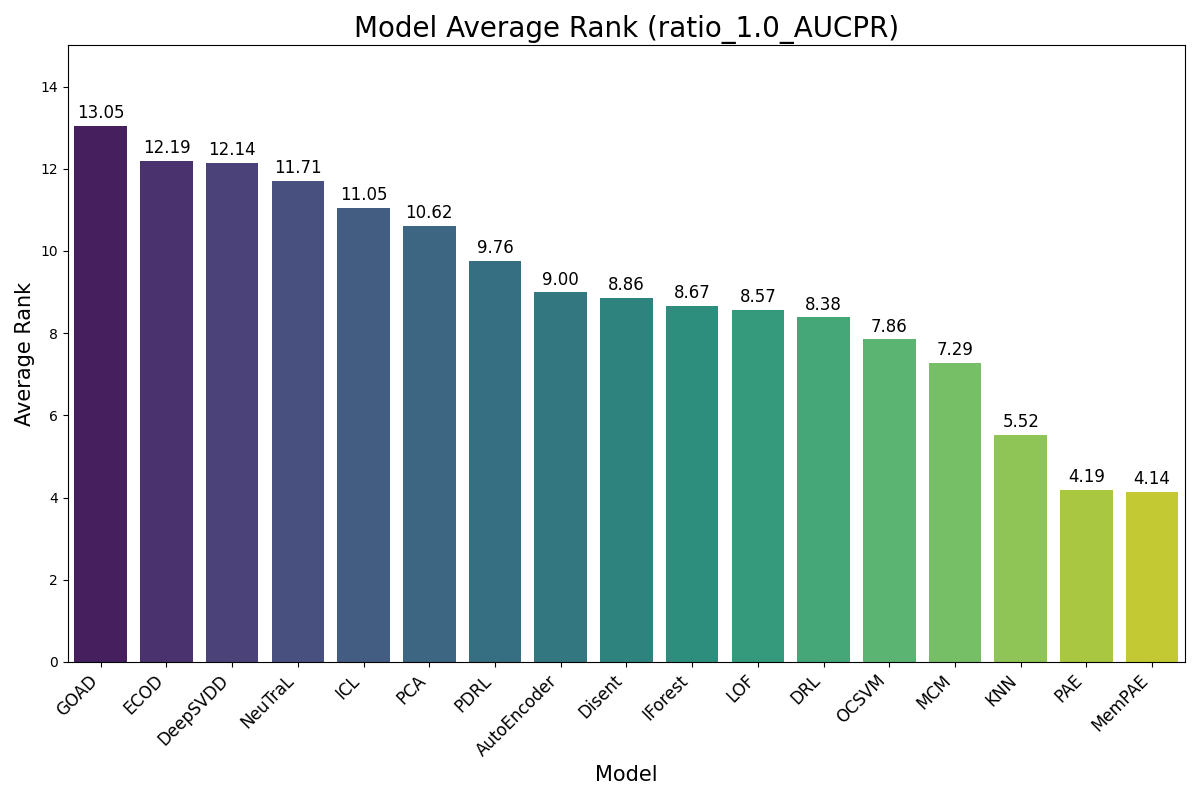
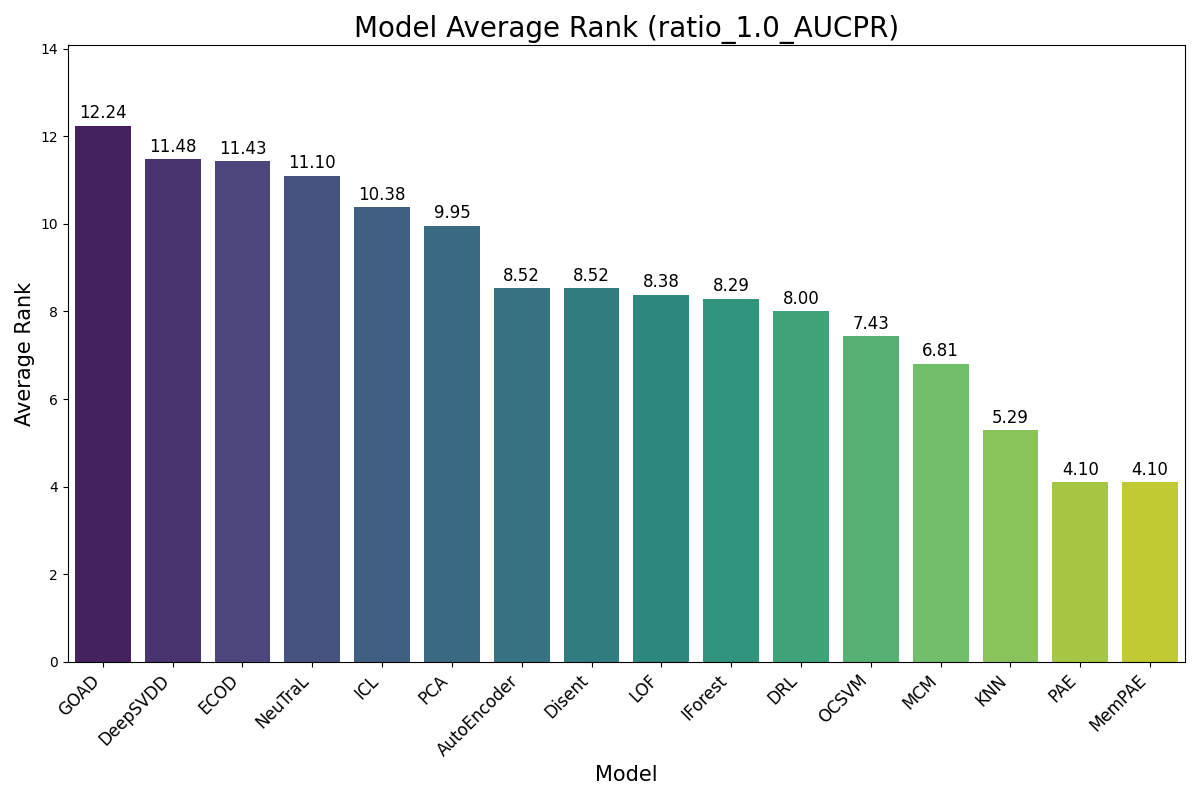
temp

Changed region(s): [[0.0617, 0.125, 0.9867, 0.9375], [0.8942, 0.8438, 0.9558, 0.9062], [0.0308, 0.875, 0.0617, 0.9062]]

diff --git a/summary.py b/summary.py
@@ -405,7 +405,7 @@ def render(
 
     print(base)
     print(df_render)
-    print(df_render.T)
+    # print(df_render.T)
     print()
 
     return df_render
@@ -475,7 +475,7 @@ def main(args):
     for base in keys:
         render(pivots, data, models, my_models, base, 
                add_avg_rank=True, use_rank=False, use_std=True, 
-               use_baseline_pr=True, is_temp_tune=False, is_sort=False)
+               use_baseline_pr=True, is_temp_tune=False, is_sort=True, is_plot=True)
 
     models = [
         'IForest', 'LOF', 'OCSVM', 'ECOD', 'KNN', 'PCA',  # KNN: 0.6918, LOF: 0.6612
@@ -499,7 +499,7 @@ def main(args):
 
         # 'PAE-ws-d64-lr0.001', # 0.6867    3.6875 # (SOTA! KNN: 4.3125)
         # 'MemPAE-ws-d64-lr0.001', # 0.6878    3.7500 (SOTA! KNN: 4.2500)
-        'MemPAE-ws-pos_query-d64-lr0.001-t0.1', # 0.6878    3.7500 (SOTA! KNN: 4.2500)
+        'MemPAE-ws-pos_query+token-d64-lr0.001-t0.1', # 0.6878    3.7500 (SOTA! KNN: 4.2500)
         # 'MemPAE-ws-pos_query+token-d64-lr0.001-t0.05',
         # 'MemPAE-ws-pos_query-d64-lr0.001-t0.05',
         # 'MemPAE-ws-pos_query+token-d64-lr0.001-t0.1',
@@ -509,6 +509,13 @@ def main(args):
         
     ]
 
+    dataname_list = [
+        '26_optdigits',
+        '23_mammography', # 11k
+        '32_shuttle', # 49k
+        '18_ionosphere', # 0.3k   
+        '38_thyroid', # 3k
+    ]
 
     # todo: make name shorter.
     if args.synthetic:
@@ -530,11 +537,11 @@ def main(args):
 
         # success case: cardio, sat (maybe)
         dataname_list = [
-            # '26_optdigits',
-            # '23_mammography', # 11k
-            # '32_shuttle', # 49k
+            '26_optdigits',
+            '23_mammography', # 11k
+            '32_shuttle', # 49k
             '18_ionosphere', # 0.3k   
-            # '38_thyroid', # 3k
+            '38_thyroid', # 3k
         
 
             # only care about dependency anomaly
@@ -600,10 +607,34 @@ def main(args):
                 df_render = render(pivots, synthetic_data, models, my_models, base,
                     add_avg_rank=True, use_rank=False, use_std=True, use_baseline_pr=False, 
                     use_alias=True, is_temp_tune=False, is_synthetic=True, synthetic_type=anomaly_type)
+    if args.contamination:
+        models=[ 
+            'MCM', 'DRL', 'Disent',
+        ]
+        contamination_ratio = [
+            'contamination_0.01_',
+            'contamination_0.03_',
+            'contamination_0.05_',
+        ]
+        suffix = '_42'
+        for dataname in dataname_list:
+            synthetic_data = []
+            for contamination in contamination_ratio:
+                file_name = f"{contamination}{dataname}{suffix}"
+                synthetic_data.append(file_name)
+      
+            for base in keys:
+                df_render = render(pivots, synthetic_data, models, my_models, base,
+                    add_avg_rank=True, use_rank=False, use_std=True, use_baseline_pr=False, 
+                    use_alias=True, is_temp_tune=False, is_synthetic=True, synthetic_type=contamination)
+
+
+
 
 if __name__ == "__main__":
     parser = argparse.ArgumentParser()
     parser.add_argument('--synthetic', action='store_true')
+    parser.add_argument('--contamination', action='store_true')
     parser.add_argument('--synthetic_type', type=str, default='dependency')
     args = parser.parse_args()
     main(args)
